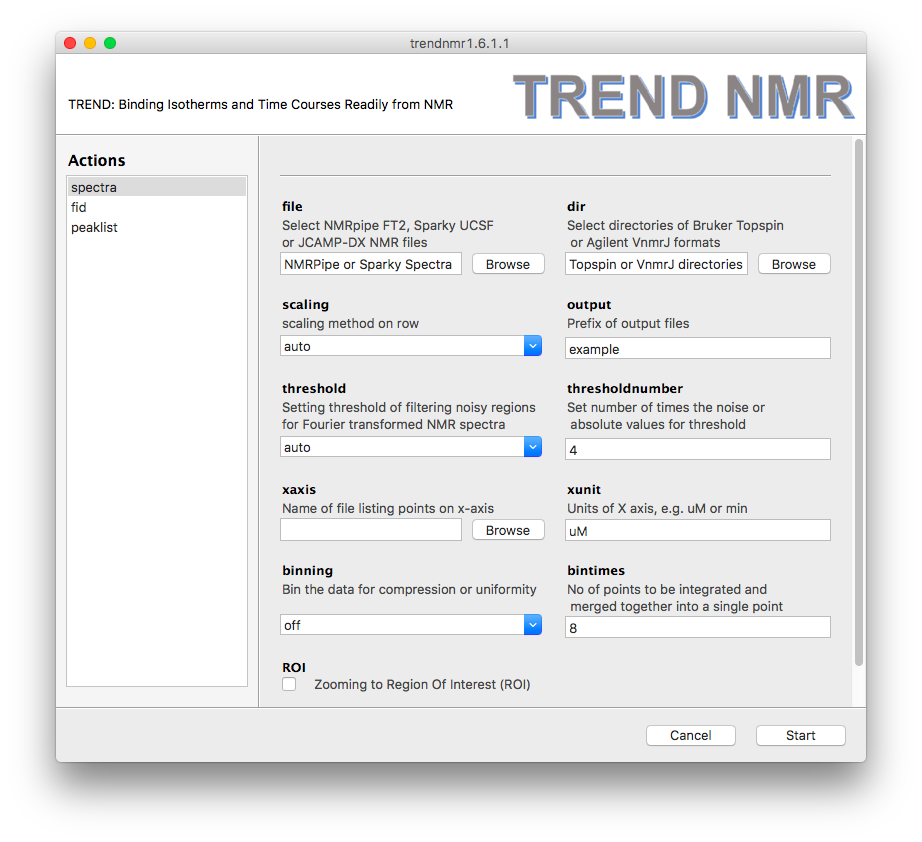
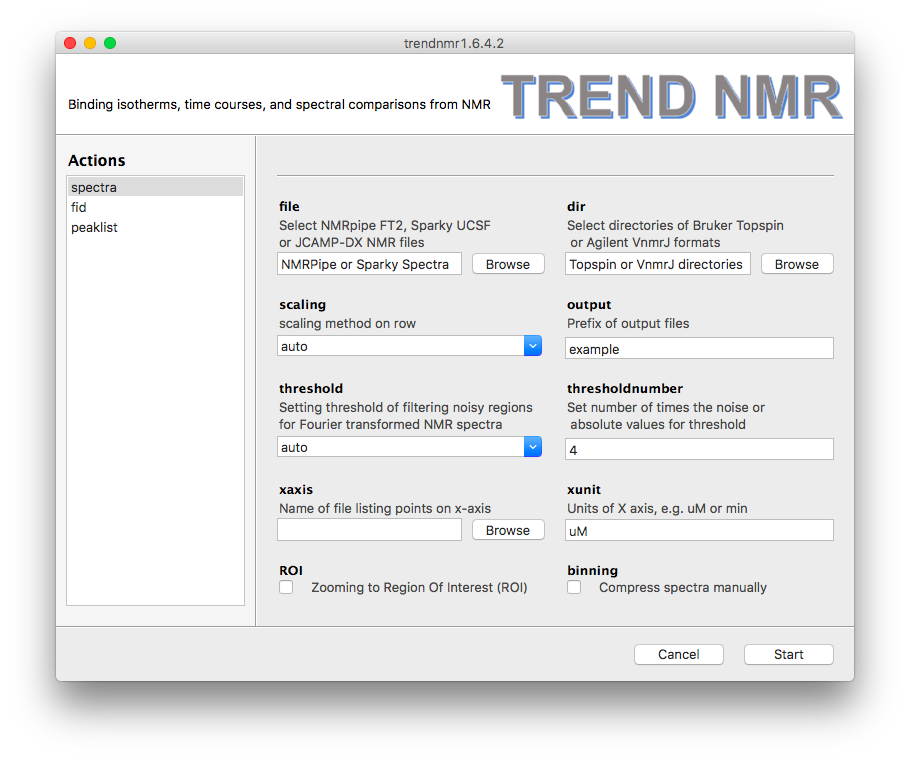
TREND NMR manual revised

Changed region(s): [[0.0615, 0.0302, 0.9538, 0.8463], [0.0615, 0.8463, 0.9538, 0.9067], [0.0615, 0.7858, 0.0923, 0.816]]

diff --git a/trendpro/trendmain/README.md b/trendpro/trendmain/README.md
@@ -1,40 +1,70 @@
 ### TREND NMR - Binding Isotherms and  Time Courses Readily from NMR  
-- TREND NMR is an improvement of the earlier [Trendmain](../../manual/GUI/trendmaingui.md) 
-that is optimized for NMR.
+- TREND NMR is an NMR-optimized improvement upon [Trendmain](../../manual/GUI/trendmaingui.md). 
+It requires a minimum of five measurements (collected uniformly) in
+order to track a trend among them or to make a comparison.  
 - In the left side bar, there are three modes to choose from: **`spectra`**, 
-**`fid`**, and **`peaklist`**. They function similarly with minor 
-differences.  
+**`fid`**, and **`peaklist`**. They function similarly, 
+but differ in small ways. 
 - For details of each option, see the [GUI mannual](../../manual/GUI/trendmaingui.md) 
 and [CLI mannual]((../../manual/CLI/trendmain.md)).  
 <img src="../png/trendmain/trendnmr_1.png" alt="trendnmr_spectra" width="600">  
+- **Spectra**  
 - The **`spectra`**  menu is used for analysis of NMR spectra. It is similar 
 to the **`nmr`** menu of [Trendmain](../../manual/GUI/trendmaingui.md). 
-- Comparing to [Trendmain](../../manual/GUI/trendmaingui.md), `TREND NMR` 
-automatically selects the format of the NMR spectra. A series of 2D NMR 
-spectra in NMRPipe `ft2`, Sparky `ucsf`, and `jcamp-dx` formats can be read 
-by the `file` File Chooser widget. Fourier-transformed Bruker Topspin 
-(`brukerspectra`) or Agilent VnmrJ (`agilentspectra`) directories can 
-be read by `dir` Directory Chooser widget.  
-- `ROI` option allows zooming in on the region of interest (ROI). 
-When `ROI` option is turned on, a preview of the first spectrum in the 
-series will pop up. The contour level can be adjusted by dragging the 
-`Contour level` widget in the bottom of the preview. 
-<img src="../png/trendmain/ROI_1.png" alt="trendnmr_ROI_1" width="600">  
-<img src="../png/trendmain/ROI_2.png" alt="trendnmr_ROI_1" width="400">  
-- The ROI can be selected by dragging a rectangular of the spectrum using 
+- `TREND NMR` automatically selects the format of NMR spectra. Under the
+  `file` heading, there is a file browsing function for choosing a
+series of 2D NMR spectra in NMRPipe `ft2`, Sparky `ucsf`, or `jcamp-dx`
+formats.  
+- Under the `dir` heading, there is a directory browsing function for
+  choosing a series of directories containing hFourier-transformed 
+Bruker Topspin spectra (`brukerspectra`)(by experiment number) or 
+Agilent VnmrJ (`agilentspectra`)   
+- Scaling is important for an accurate binding isotherm. Usually `auto`
+  is the best choice, but sometimes `pareto` is more accurate. The
+default scaling method of rows of the data matrix is `auto`, which is
+recommended for series of NMR spectra in fast or slow exchange regimes.
+`pareto` is recommended for spectra with intermediate exchange behavior.
+Considerations in choosing scaling method and setting the threshold to
+filter out noise are given in the Supporting Information of [Jia Xu
+and Steven R. Van Doren, Binding Isotherms and Time Courses Readily from
+Magnetic Resonance. _Anal. Chem._ 2016, 88 (16), pp 8172-8178](
+  http://pubs.acs.org/doi/abs/10.1021/acs.analchem.6b01918)  
+- `threshold` and `thresholdnumber` can be set for filtering noise out
+  of nMR spectra. The three ways to set `threshold` are `auto`,
+`absolute`, and `the number of times the noise level`. In `auto` mode,
+the program determines noise from the first spectrum and set the
+threshold as 4-fold the noise level for `autoscaling` and 0.5 times the
+noise level of `Pareto` scaling.  
+- `Compression` of the spectra can be turned on for a faster, more
+  economical calculation, if desired. The number of points to group
+together can be adjusted interactively using a slider.  
+- The `ROI` option allows zooming in on the region of interest (ROI).
+  This is useful for avoiding disruptive spectral artefacts, e.g. from
+the water or other solvent. 
+When the `ROI` option is turned on, a preview of the first spectrum in the 
+series will pop up. The ROI can be selected by dragging a rectangular of the spectrum using 
 mouse. After this window is closed, a preview of selected ROI will pop up 
 and be saved as a `PNG` picture with suffix of `-ROI.png` to the directory 
 of input spectra.  
+- The contour level can be adjusted by dragging the  
+`Contour level` widget in the bottom of the preview. 
+<img src="../png/trendmain/ROI_1.png" alt="trendnmr_ROI_1" width="600">  
+<img src="../png/trendmain/ROI_2.png" alt="trendnmr_ROI_1" width="400">  
+- **FIDs**  
 - The **`fid`** menu is very similar to the **`spectra`** menu but 
-removes options that FID do need, such as `threshold` and `binning`. Instead, 
-`solventfilter` is added. FID files such as NMRPipe `fid`, Simens `RDA`, 
-`JCAMP-DX` are supported by the `file` browser. Bruker Topspin `brukerfid` 
-and Agilent VnmrJ `agilentfid` directories can be read by the `dir` browser.  
-VnmrJ   
+should be used if analyzing free induction decays (FIDs). This menu is
+simplified for handling FIDs, but adds the `solventfilter` option for
+subtrcting an on-resonance solvent signal. FID files such as NMRPipe
+`fid`, Simens `RDA`, 
+`JCAMP-DX` formats are supported by the `file` browser. Directories each containing a Bruker Topspin FID (`brukerfid`) or 
+Agilent VnmrJ FID (`agilentfid`) can be read by the `dir` browser.  
 <img src="../png/trendmain/trendnmr_2.png" alt="trendnmr_fid" width="600"> 
+- **Peaklists**  
 - The **`peaklist`** menu currently only supports Sparky peak list format 
-`sparky`. It supports scaling on both row (`--scaling`) and column 
-(`--columnscaling`).   
+`sparky`. It supports scaling of rows under the `scaling` and optionally
+of columns under `columnscaling`. `trendmaingui` (from the original,
+general-purpose TREND package) also reads and analyzes lists in Excel,
+CSV, and text files, any of which would be suitable for peak lists.  
 <img src="../png/trendmain/trendnmr_3.png" alt="trendnmr_peaklist" width="600"> 
 
 
